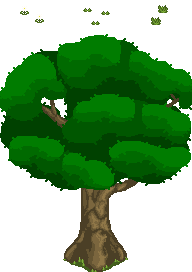
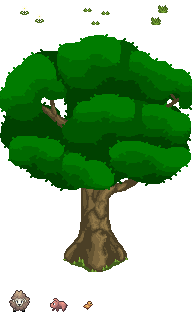
added sheep via vegetation.png and vegetation.json

diff --git a/src/core/assets.ts b/src/core/assets.ts
@@ -1,26 +1,16 @@
-import { Assets, Spritesheet, Texture } from 'pixi.js'
+import { Assets, Spritesheet } from 'pixi.js'
 
-export type AssetsKeys = 'BLOCKS' | 'PLAYER' | 'VEGETATION' | 'ANIMALS'
-
-type TexturesMap = Record<string, Texture>
-
-export type AnimalAssets = {
-	textures: TexturesMap
-}
-
-export const ASSETS: Partial<Record<AssetsKeys, Spritesheet | AnimalAssets>> = {}
+export type AssetsKeys = 'BLOCKS' | 'PLAYER' | 'VEGETATION'
+export const ASSETS: Partial<Record<AssetsKeys, Spritesheet>> = {}
 
 export type AudioKeys = 'WALK' | 'SWIM'
 export const AUDIO: Partial<Record<AudioKeys, HTMLAudioElement[]>> = {}
 
 export const loadAllinitialAssets = async () => {
-	// Ladda standard spritesheets
 	ASSETS.BLOCKS = await Assets.load('/game/blocks.json')
 	ASSETS.VEGETATION = await Assets.load('/game/vegetation.json')
 	ASSETS.PLAYER = await Assets.load('/game/character/player.json')
-	ASSETS.ANIMALS = await Assets.load('/game/animals/sheep.json')
 
-	// Ladda ljud
 	AUDIO.WALK = [
 		new Audio('/sound/step-1.mp3'),
 		new Audio('/sound/step-2.mp3'),

diff --git a/src/core/vegetation.ts b/src/core/vegetation.ts
@@ -19,13 +19,14 @@ const VEGETATION_NOISE = {
 	'dasiy.png': 0.08,
 	'oak-tree.png': 0.05,
 	'tall-grass.png': 0.2,
-	'short-grass.png': 0.3
+	'short-grass.png': 0.3,
+	'sheep.png': 0.3
 } as const
 
 const TREE_DENSITY = 0.03
 const PLANT_DENSITY = 0.1
 
-const collisions = ['oak-tree.png']
+const collisions = ['oak-tree.png', 'sheep.png']
 
 export const hasVegetationCollisions = (vegetation: Sprite) => {
 	return collisions.includes(vegetation.texture.label ?? '')